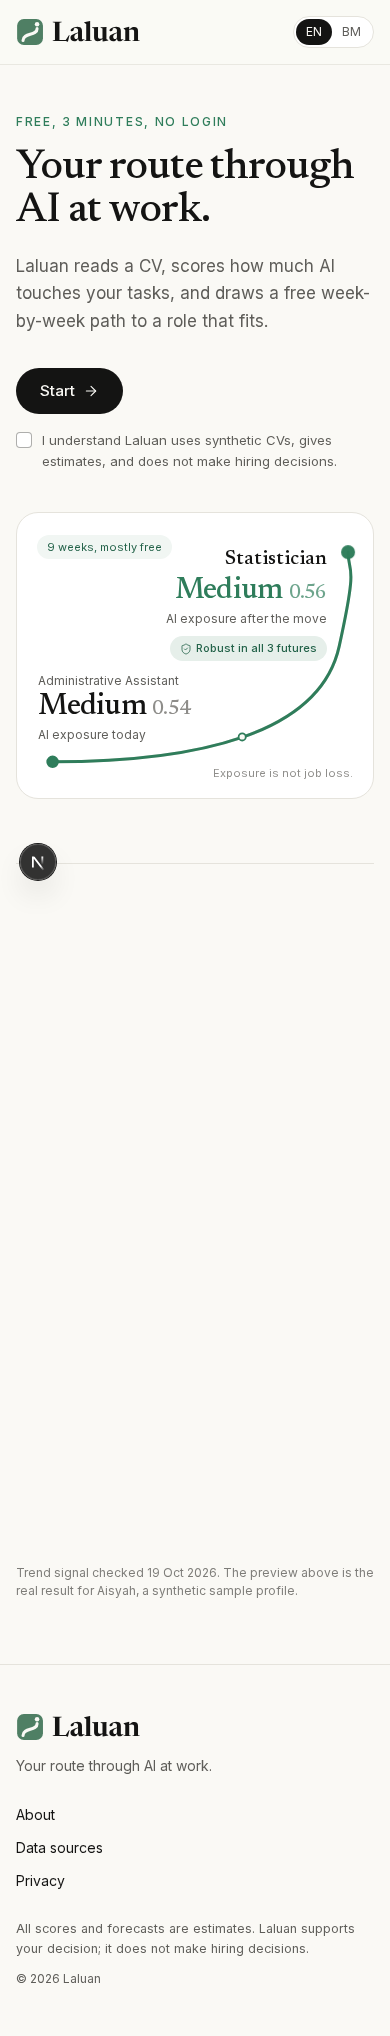
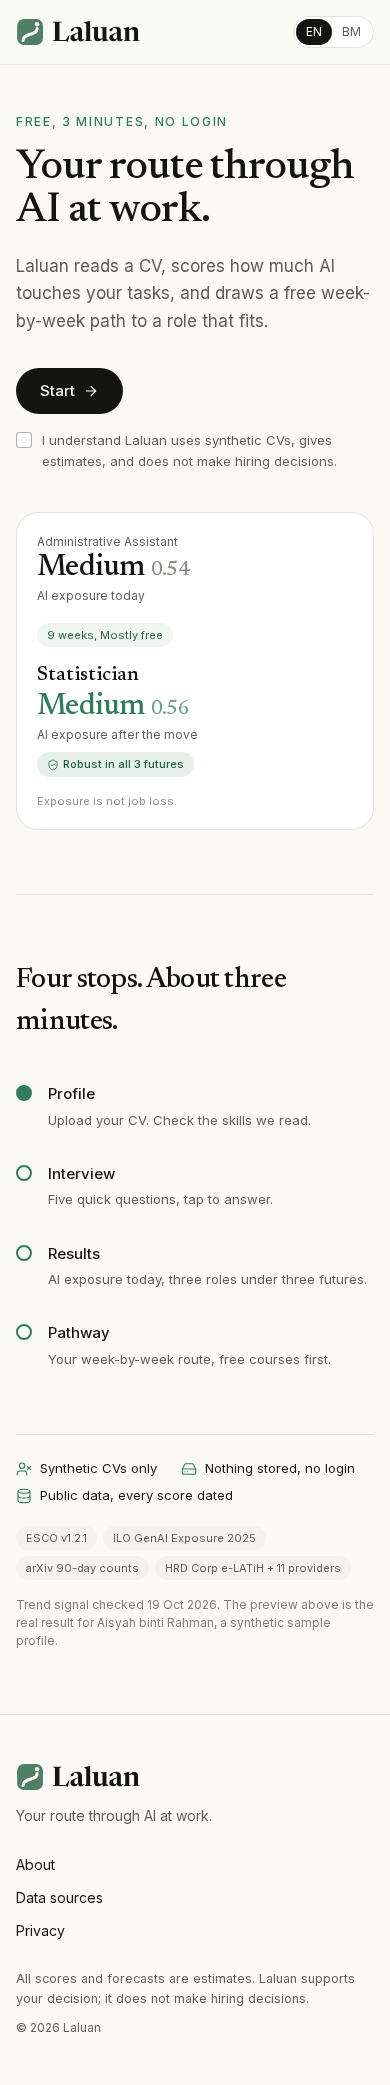
i18n status labels and salary unit, stacked mobile landing preview, refreshed EN/BM screenshots

diff --git a/src/components/landing-view.tsx b/src/components/landing-view.tsx
@@ -12,6 +12,7 @@ import { bandLabel, formatDayMonthYear } from "@/lib/display";
 import { useFlow } from "@/context/flow-context";
 import { useT, type MessageKey } from "@/lib/i18n";
 import type { LandingPreview } from "@/lib/landing-preview";
+import { localizeStatusLabel } from "@/lib/status-label";
 
 const STOPS = [
   { titleKey: "nav.profile", bodyKey: "landing.stop1.body" },
@@ -180,7 +181,7 @@ function PreviewRoute({ preview }: { preview: LandingPreview }) {
   const { t } = useT();
   const role = preview.role;
   return (
-    <div className="panel relative aspect-auto min-h-[240px] w-full overflow-hidden p-5 sm:aspect-[5/4] sm:min-h-0 sm:p-6">
+    <div className="panel relative flex min-h-[240px] w-full flex-col gap-4 overflow-hidden p-5 sm:block sm:aspect-[5/4] sm:min-h-0 sm:p-6">
       <RouteLine
         d="M 40 280 C 200 280, 340 250, 362 150 S 372 70, 372 44"
         viewBox="0 0 400 320"
@@ -188,7 +189,7 @@ function PreviewRoute({ preview }: { preview: LandingPreview }) {
         strokeWidth={3}
         delay={0.6}
         duration={1.8}
-        className="absolute inset-0 h-full w-full"
+        className="absolute inset-0 hidden h-full w-full sm:block"
       >
         <RouteDot cx={40} cy={280} r={6} delay={0.5} />
         <RouteDot cx={253} cy={252} r={4} delay={1.5} filled={false} />
@@ -196,7 +197,7 @@ function PreviewRoute({ preview }: { preview: LandingPreview }) {
       </RouteLine>
 
       {/* today: sits above the first station */}
-      <div className="absolute bottom-[19%] left-[6%] max-w-[48%]">
+      <div className="max-w-[70%] sm:absolute sm:bottom-[19%] sm:left-[6%] sm:max-w-[48%]">
         <p className="text-[12px] text-grey capitalize">{preview.currentTitle}</p>
         <p className="mt-0.5 font-serif text-[30px] leading-none font-medium tracking-tight sm:text-[36px]">
           {bandLabel(preview.currentExposure, t)}{" "}
@@ -208,7 +209,7 @@ function PreviewRoute({ preview }: { preview: LandingPreview }) {
       </div>
 
       {/* the plan */}
-      <div className="absolute top-5 left-5 sm:top-6 sm:left-6">
+      <div className="sm:absolute sm:top-6 sm:left-6">
         <span className="tag bg-sage-wash text-sage-dark">
           {t("landing.planChip", {
             weeks: String(preview.planWeeks),
@@ -218,7 +219,7 @@ function PreviewRoute({ preview }: { preview: LandingPreview }) {
       </div>
 
       {/* the move: left of the last station */}
-      <div className="absolute top-[12%] right-[13%] max-w-[56%] text-right">
+      <div className="max-w-[80%] sm:absolute sm:top-[12%] sm:right-[13%] sm:max-w-[56%] sm:text-right">
         <p className="font-serif text-[20px] leading-tight font-medium capitalize sm:text-[24px]">{role.title}</p>
         <p className="mt-1 font-serif text-[30px] leading-none font-medium tracking-tight text-sage sm:text-[36px]">
           {bandLabel(role.exposure, t)}{" "}
@@ -230,12 +231,12 @@ function PreviewRoute({ preview }: { preview: LandingPreview }) {
         {preview.robust && (
           <span className="mt-2 inline-flex items-center gap-1 rounded-full bg-sage-soft px-2.5 py-1 text-[11px] font-medium text-sage-dark">
             <ShieldCheck className="size-3" strokeWidth={1.8} />
-            {t("landing.statusRobust")}
+            {localizeStatusLabel(preview.statusLabel, t)}
           </span>
         )}
       </div>
 
-      <p className="absolute right-5 bottom-4 text-[11px] text-grey/70 sm:right-6">
+      <p className="text-[11px] text-grey/70 sm:absolute sm:right-6 sm:bottom-4">
         {t("landing.exposureNotJobLoss")}
       </p>
     </div>

diff --git a/src/lib/i18n.tsx b/src/lib/i18n.tsx
@@ -108,6 +108,7 @@ export const EN = {
   "roleCard.flagThis": "Flag this",
   "roleCard.averageOccupationGroup": "Average for the whole occupation group",
   "roleCard.salaryUnavailable": "Salary data not available",
+  "salary.perMonth": "/ month",
   "roleCard.chosen": "Chosen",
   "roleCard.chooseThisRole": "Choose this role",
   "sourcesDisclosure.one": "{count} source",
@@ -366,6 +367,17 @@ export const EN = {
   "status.lede": "Live checks for every integration this starter depends on.",
   "status.ok": "OK",
   "status.error": "Error",
+  "status.robust": "Robust in all 3 futures",
+  "status.interest": "Matches your interest: {interest}",
+  "status.topIn": "Top 3 in {scenarios} only",
+  "status.and": "and",
+  "status.scenario.co": "Co-Pilot",
+  "status.scenario.dis": "Displacement",
+  "status.scenario.sup": "Supercharged",
+  "status.interest.environment": "environment",
+  "status.interest.education": "education",
+  "status.interest.health": "health",
+  "status.interest.community": "community",
   "landing.trendChecked":
     "Trend signal checked {date}. The preview above is the real result for {name}, a synthetic sample profile.",
   "landing.exposureToday": "AI exposure today",
@@ -488,6 +500,7 @@ export const MS: Record<MessageKey, string> = {
   "roleCard.flagThis": "Tandakan ini",
   "roleCard.averageOccupationGroup": "Purata bagi keseluruhan kumpulan pekerjaan",
   "roleCard.salaryUnavailable": "Data gaji tidak tersedia",
+  "salary.perMonth": "/ bulan",
   "roleCard.chosen": "Dipilih",
   "roleCard.chooseThisRole": "Pilih peranan ini",
   "sourcesDisclosure.one": "{count} sumber",
@@ -751,6 +764,17 @@ export const MS: Record<MessageKey, string> = {
   "status.lede": "Semakan langsung untuk setiap integrasi yang bergantung pada permulaan ini.",
   "status.ok": "OK",
   "status.error": "Ralat",
+  "status.robust": "Kukuh dalam ketiga-tiga senario masa depan",
+  "status.interest": "Padan dengan minat anda: {interest}",
+  "status.topIn": "3 teratas dalam {scenarios} sahaja",
+  "status.and": "dan",
+  "status.scenario.co": "Co-Pilot",
+  "status.scenario.dis": "Penggantian",
+  "status.scenario.sup": "Dipercepatkan",
+  "status.interest.environment": "alam sekitar",
+  "status.interest.education": "pendidikan",
+  "status.interest.health": "kesihatan",
+  "status.interest.community": "komuniti",
   "landing.trendChecked":
     "Isyarat trend disemak {date}. Pratonton di atas ialah hasil sebenar untuk {name}, profil sampel sintetik.",
   "landing.exposureToday": "Pendedahan AI hari ini",

diff --git a/src/components/role-card.tsx b/src/components/role-card.tsx
@@ -14,6 +14,7 @@ import { SourcesDisclosure } from "@/components/sources-disclosure";
 import { bandLabel, formatFitPercent } from "@/lib/display";
 import { useT, type MessageKey } from "@/lib/i18n";
 import { formatMonthlyRm, salaryForRole } from "@/lib/salary";
+import { localizeStatusLabel } from "@/lib/status-label";
 import { cn } from "@/lib/utils";
 import type { RoleResult, SdgLink } from "@/types/contracts";
 
@@ -95,7 +96,7 @@ export function RoleCard({
           )}
         >
           <StatusIcon className="size-3.5" strokeWidth={1.6} />
-          {status.label}
+          {localizeStatusLabel(status.label, t)}
         </span>
         <span className="shrink-0 font-serif text-[14px] text-grey tabular-nums">
           {t("roleCard.rankOf", { rank: String(rank), total: String(total) })}
@@ -189,7 +190,7 @@ export function RoleCard({
             <div>
               <p className="mb-1 text-[12px] text-grey">{t("roleCard.whyThisRole")}</p>
               <p className="leading-relaxed">
-                {status.label}
+                {localizeStatusLabel(status.label, t)}
                 {role.explanation ? `. ${role.explanation}` : ""}
               </p>
             </div>
@@ -227,7 +228,7 @@ export function RoleCard({
         <div className="mb-4 border-t border-line pt-4">
           {salary ? (
             <>
-              <p className="font-serif text-[26px] font-medium tabular-nums">{formatMonthlyRm(salary.avgMonthlyRm)}</p>
+              <p className="font-serif text-[26px] font-medium tabular-nums">{formatMonthlyRm(salary.avgMonthlyRm, t("salary.perMonth"))}</p>
               <p className="text-[12px] text-grey">
                 MASCO {salary.mascoMajor} {salary.mascoMajorName} · DOSM {salary.year}
               </p>

diff --git a/src/lib/status-label.ts b/src/lib/status-label.ts
@@ -1,0 +1,47 @@
+// Translates the English status labels produced by analyze.ts's statusFor()
+// without changing that module's output (tests depend on it).
+import type { MessageKey } from "@/lib/i18n";
+
+type Translate = (key: MessageKey, vars?: Record<string, string>) => string;
+
+const INTEREST_KEYS: Record<string, MessageKey> = {
+  environment: "status.interest.environment",
+  education: "status.interest.education",
+  health: "status.interest.health",
+  community: "status.interest.community",
+};
+
+const SCENARIO_KEYS: Record<string, MessageKey> = {
+  "Co-Pilot": "status.scenario.co",
+  Displacement: "status.scenario.dis",
+  Supercharged: "status.scenario.sup",
+};
+
+const INTEREST_PREFIX = "Matches your interest: ";
+const TOP_IN_PREFIX = "Top 3 in ";
+const TOP_IN_SUFFIX = " only";
+const SCENARIO_SEPARATOR = " and ";
+
+export function localizeStatusLabel(label: string, t: Translate): string {
+  if (label === "Robust in all 3 futures") return t("status.robust");
+
+  if (label.startsWith(INTEREST_PREFIX)) {
+    const interest = label.slice(INTEREST_PREFIX.length);
+    const interestKey = INTEREST_KEYS[interest];
+    if (!interestKey) return label;
+    return t("status.interest", { interest: t(interestKey) });
+  }
+
+  if (label.startsWith(TOP_IN_PREFIX) && label.endsWith(TOP_IN_SUFFIX)) {
+    const names = label.slice(TOP_IN_PREFIX.length, -TOP_IN_SUFFIX.length).split(SCENARIO_SEPARATOR);
+    const scenarios: string[] = [];
+    for (const name of names) {
+      const scenarioKey = SCENARIO_KEYS[name];
+      if (!scenarioKey) return label;
+      scenarios.push(t(scenarioKey));
+    }
+    return t("status.topIn", { scenarios: scenarios.join(` ${t("status.and")} `) });
+  }
+
+  return label;
+}

diff --git a/src/lib/status-label.test.ts b/src/lib/status-label.test.ts
@@ -1,0 +1,37 @@
+import { describe, expect, it } from "vitest";
+import { translate, type SiteLocale } from "./i18n";
+import { localizeStatusLabel } from "./status-label";
+
+function localize(label: string, locale: SiteLocale): string {
+  return localizeStatusLabel(label, (key, vars) => translate(locale, key, vars));
+}
+
+describe("localizeStatusLabel", () => {
+  it("translates the robust label", () => {
+    expect(localize("Robust in all 3 futures", "en")).toBe("Robust in all 3 futures");
+    expect(localize("Robust in all 3 futures", "ms")).toBe(
+      "Kukuh dalam ketiga-tiga senario masa depan",
+    );
+  });
+
+  it("translates the interest label and its interest name", () => {
+    expect(localize("Matches your interest: health", "en")).toBe("Matches your interest: health");
+    expect(localize("Matches your interest: health", "ms")).toBe(
+      "Padan dengan minat anda: kesihatan",
+    );
+  });
+
+  it("translates the top-in label and every scenario short name", () => {
+    expect(localize("Top 3 in Co-Pilot and Supercharged only", "en")).toBe(
+      "Top 3 in Co-Pilot and Supercharged only",
+    );
+    expect(localize("Top 3 in Co-Pilot and Supercharged only", "ms")).toBe(
+      "3 teratas dalam Co-Pilot dan Dipercepatkan sahaja",
+    );
+  });
+
+  it("returns unknown labels unchanged", () => {
+    expect(localize("Something else", "ms")).toBe("Something else");
+    expect(localize("Top 3 in Unknown only", "ms")).toBe("Top 3 in Unknown only");
+  });
+});

diff --git a/src/lib/salary.ts b/src/lib/salary.ts
@@ -16,6 +16,6 @@ export function salaryForRole(occupationId: string): RoleSalary | undefined {
   return TABLE[occupationId];
 }
 
-export function formatMonthlyRm(value: number): string {
-  return `RM ${value.toLocaleString("en-MY")} / month`;
+export function formatMonthlyRm(value: number, perMonth = "/ month"): string {
+  return `RM ${value.toLocaleString("en-MY")} ${perMonth}`;
 }
